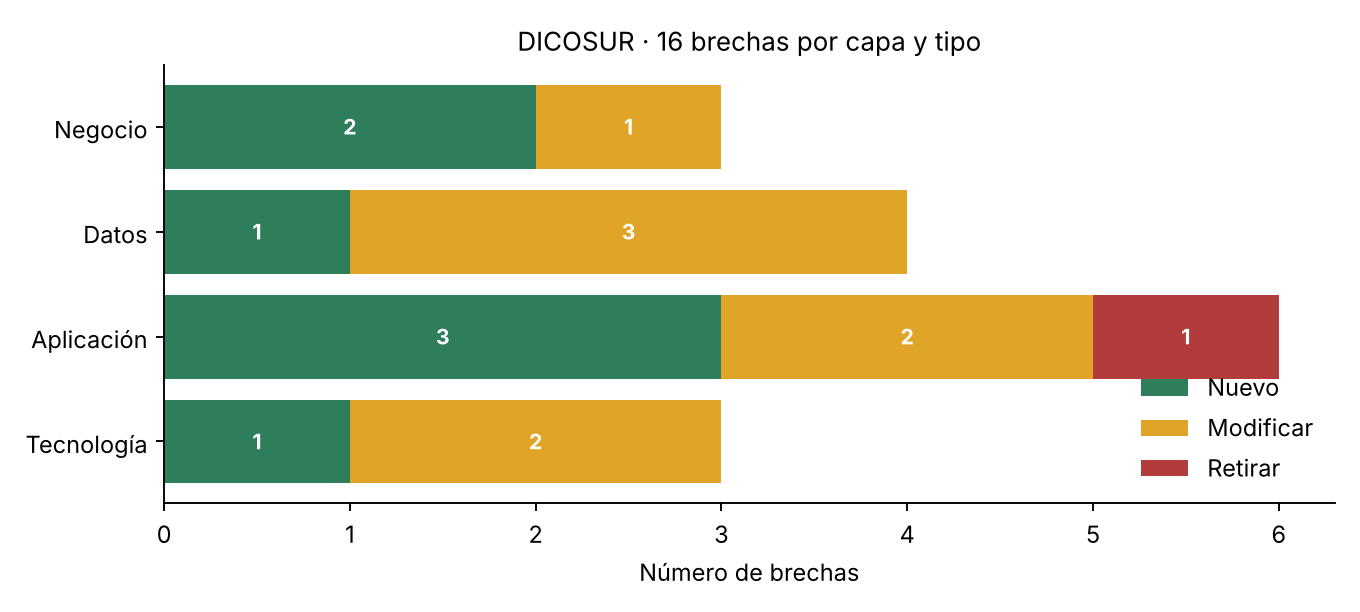
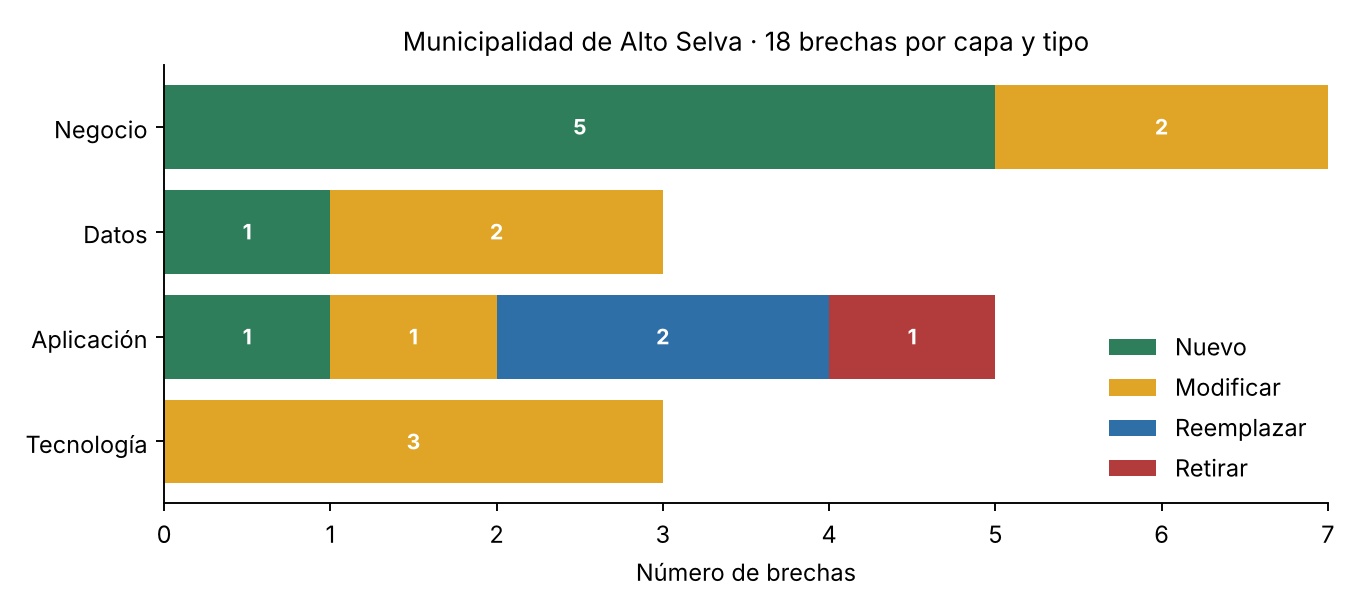
S10: Paso D - analisis de brechas (18), paquetes de trabajo (8) y secuencia obligada en 5 olas

diff --git a/05_arquitectura/AR03_brechas.py b/05_arquitectura/AR03_brechas.py
@@ -1,4 +1,4 @@
-"""AR03 · Análisis de brechas y paquetes de trabajo — DICOSUR (Taller 10, SI-886).
+"""AR03 · Análisis de brechas y paquetes de trabajo — Municipalidad Distrital de Alto Selva (Taller 10, SI-886).
 
 Lee AR03_brechas.csv (brechas por capa, tipo, esfuerzo y dependencias) y
 AR03_paquetes_def.csv (paquetes de trabajo y proyecto del portafolio) y:
@@ -32,12 +32,14 @@ b["esfuerzo_sem"] = b["esfuerzo_sem"].astype(int)
 lista = lambda s: [x.strip() for x in s.split(";") if x.strip()]
 
 print("=" * 76)
-print("AR03 · ANÁLISIS DE BRECHAS Y PAQUETES DE TRABAJO · DICOSUR")
+print("AR03 · ANÁLISIS DE BRECHAS Y PAQUETES DE TRABAJO · ALTO SELVA")
 print("=" * 76)
 
 # ---------------------------------------------------------------- 1. brechas por capa y tipo
 print(f"\n1. Brechas por capa y tipo ({len(b)} brechas · {b.esfuerzo_sem.sum()} semanas-persona)\n")
+TIPOS = ["Nuevo", "Modificar", "Reemplazar", "Retirar"]
 tabla = pd.crosstab(b.capa, b.tipo, margins=True, margins_name="Total")
+tabla = tabla[[t for t in TIPOS if t in tabla] + ["Total"]]
 tabla = tabla.reindex(["Negocio", "Datos", "Aplicación", "Tecnología", "Total"])
 print(tabla.to_string())
 
@@ -92,22 +94,24 @@ P.to_csv(BASE / "AR03_paquetes.csv", index=False)
 
 print("\n2. Paquetes de trabajo derivados de las brechas\n")
 for r in P.itertuples():
-    print(f"  {r.paquete}  {r.nombre:<40} {r.n_brechas} brechas  {r.esfuerzo_sem:>3} sem-p  -> {r.proyecto}")
+    print(f"  {r.paquete}  {r.nombre:<42} {r.n_brechas} brechas  {r.esfuerzo_sem:>3} sem-p  -> {r.proyecto}")
     print(f"         brechas: {r.brechas}" + (f" · depende de: {r.depende_de}" if r.depende_de else " · sin dependencias"))
 
 print("\n3. Secuencia obligada por dependencias\n")
 for n in sorted(set(ola.values())):
     print(f"  Ola {n}: " + " · ".join(f"{p} {P.set_index('paquete').loc[p, 'nombre']}" for p in sorted(k for k, v in ola.items() if v == n)))
 print(f"\n  Ruta crítica por esfuerzo: {' → '.join(ruta)} = {largo[fin]} semanas-persona")
-print("  Regla verificada: WP-07 (analítica) queda después de WP-03 (gobierno del dato) y WP-02 (cumplimiento)"
-      if ola["WP-07"] > max(ola["WP-03"], ola["WP-02"]) else "  [ALERTA] la analítica no queda después del gobierno del dato")
+print("  Regla verificada: WP-01 (gobierno digital) y WP-04 (continuidad) abren la secuencia (AP-01 · AP-03)"
+      if ola["WP-01"] == 1 and ola["WP-04"] == 1 else "  [ALERTA] el gobierno digital o la continuidad no abren la secuencia")
+print("  Regla verificada: WP-06 (servicios al ciudadano) queda después de WP-02 (datos personales) y WP-07 (interoperabilidad)"
+      if ola["WP-06"] > max(ola["WP-02"], ola["WP-07"]) else "  [ALERTA] los servicios digitales no quedan después de la protección de datos")
 
 # ---------------------------------------------------------------- 4. gráficos
 fig, ax = plt.subplots(figsize=(8, 3.6))
 t = pd.crosstab(b.capa, b.tipo).reindex(["Negocio", "Datos", "Aplicación", "Tecnología"]).fillna(0)
-colores = {"Nuevo": "#2e7d5b", "Modificar": "#e0a526", "Retirar": "#b23b3b"}
+colores = {"Nuevo": "#2e7d5b", "Modificar": "#e0a526", "Reemplazar": "#2e6fa8", "Retirar": "#b23b3b"}
 izq = [0] * len(t)
-for tipo in ["Nuevo", "Modificar", "Retirar"]:
+for tipo in TIPOS:
     if tipo in t:
         ax.barh(t.index, t[tipo], left=izq, color=colores[tipo], label=tipo)
         for k, (l, v) in enumerate(zip(izq, t[tipo])):
@@ -116,7 +120,7 @@ for tipo in ["Nuevo", "Modificar", "Retirar"]:
         izq = [a + c for a, c in zip(izq, t[tipo])]
 ax.invert_yaxis()
 ax.set_xlabel("Número de brechas")
-ax.set_title(f"DICOSUR · {len(b)} brechas por capa y tipo", fontsize=11)
+ax.set_title(f"Municipalidad de Alto Selva · {len(b)} brechas por capa y tipo", fontsize=11)
 ax.legend(frameon=False, loc="lower right")
 ax.spines[["top", "right"]].set_visible(False)
 fig.tight_layout()
@@ -124,7 +128,7 @@ fig.savefig(GRAFICOS / "AR03_brechas_por_capa.png", dpi=170)
 plt.close(fig)
 
 fig, ax = plt.subplots(figsize=(9, 3.9))
-paleta = {1: "#b23b3b", 2: "#e0a526", 3: "#2e6fa8", 4: "#2e7d5b"}
+paleta = {1: "#b23b3b", 2: "#e0a526", 3: "#2e6fa8", 4: "#2e7d5b", 5: "#7b4fa0"}
 orden = P.sort_values(["inicio_sem", "paquete"], ascending=[False, False])
 for k, r in enumerate(orden.itertuples()):
     critico = r.paquete in ruta
@@ -134,7 +138,7 @@ ax.set_yticks([])
 ax.set_xlabel("Semanas-persona acumuladas (inicio más temprano según dependencias)")
 ax.set_title("Secuencia obligada de los paquetes de trabajo (borde negro = ruta crítica)", fontsize=10)
 from matplotlib.patches import Patch
-ax.legend(handles=[Patch(color=c, label=f"Ola {n}") for n, c in paleta.items()], frameon=False, ncol=4, loc="upper right", fontsize=8)
+ax.legend(handles=[Patch(color=c, label=f"Ola {n}") for n, c in paleta.items()], frameon=False, ncol=5, loc="upper right", fontsize=8)
 ax.set_xlim(0, largo[fin] + 22)
 ax.set_ylim(-0.6, len(orden) + 0.6)
 ax.spines[["top", "right", "left"]].set_visible(False)
